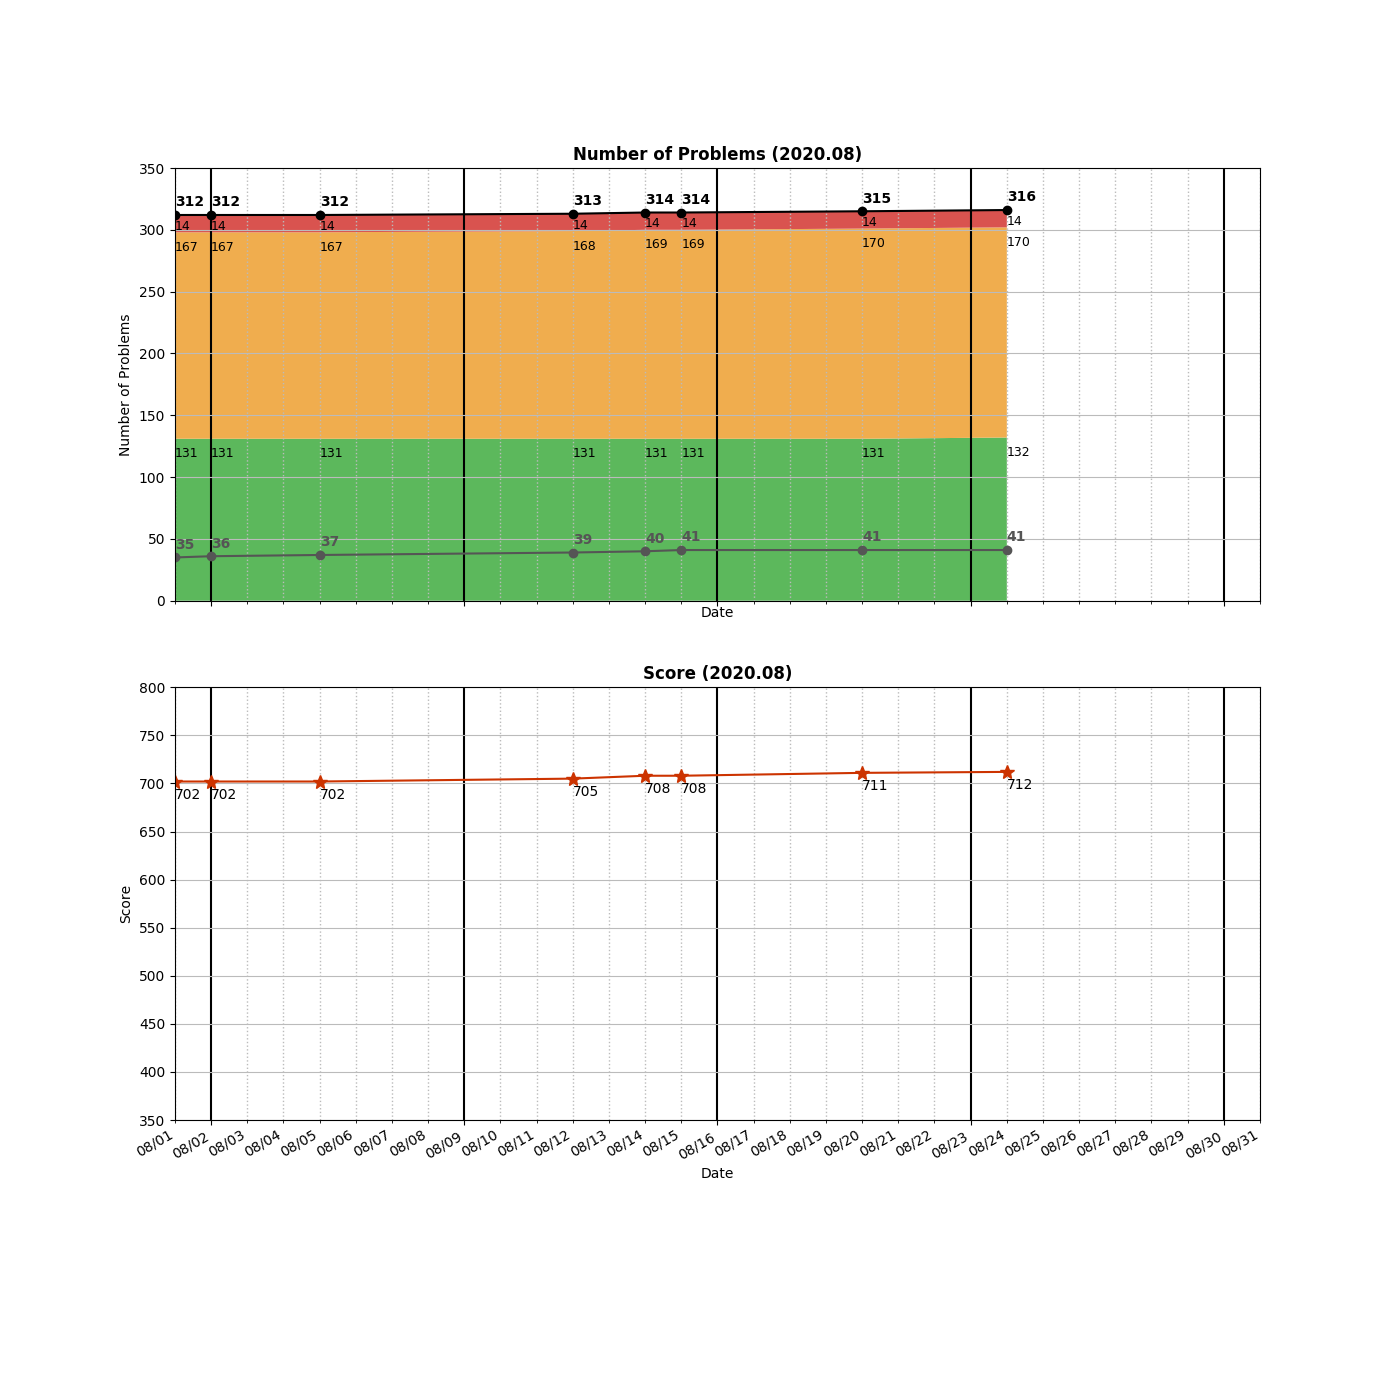
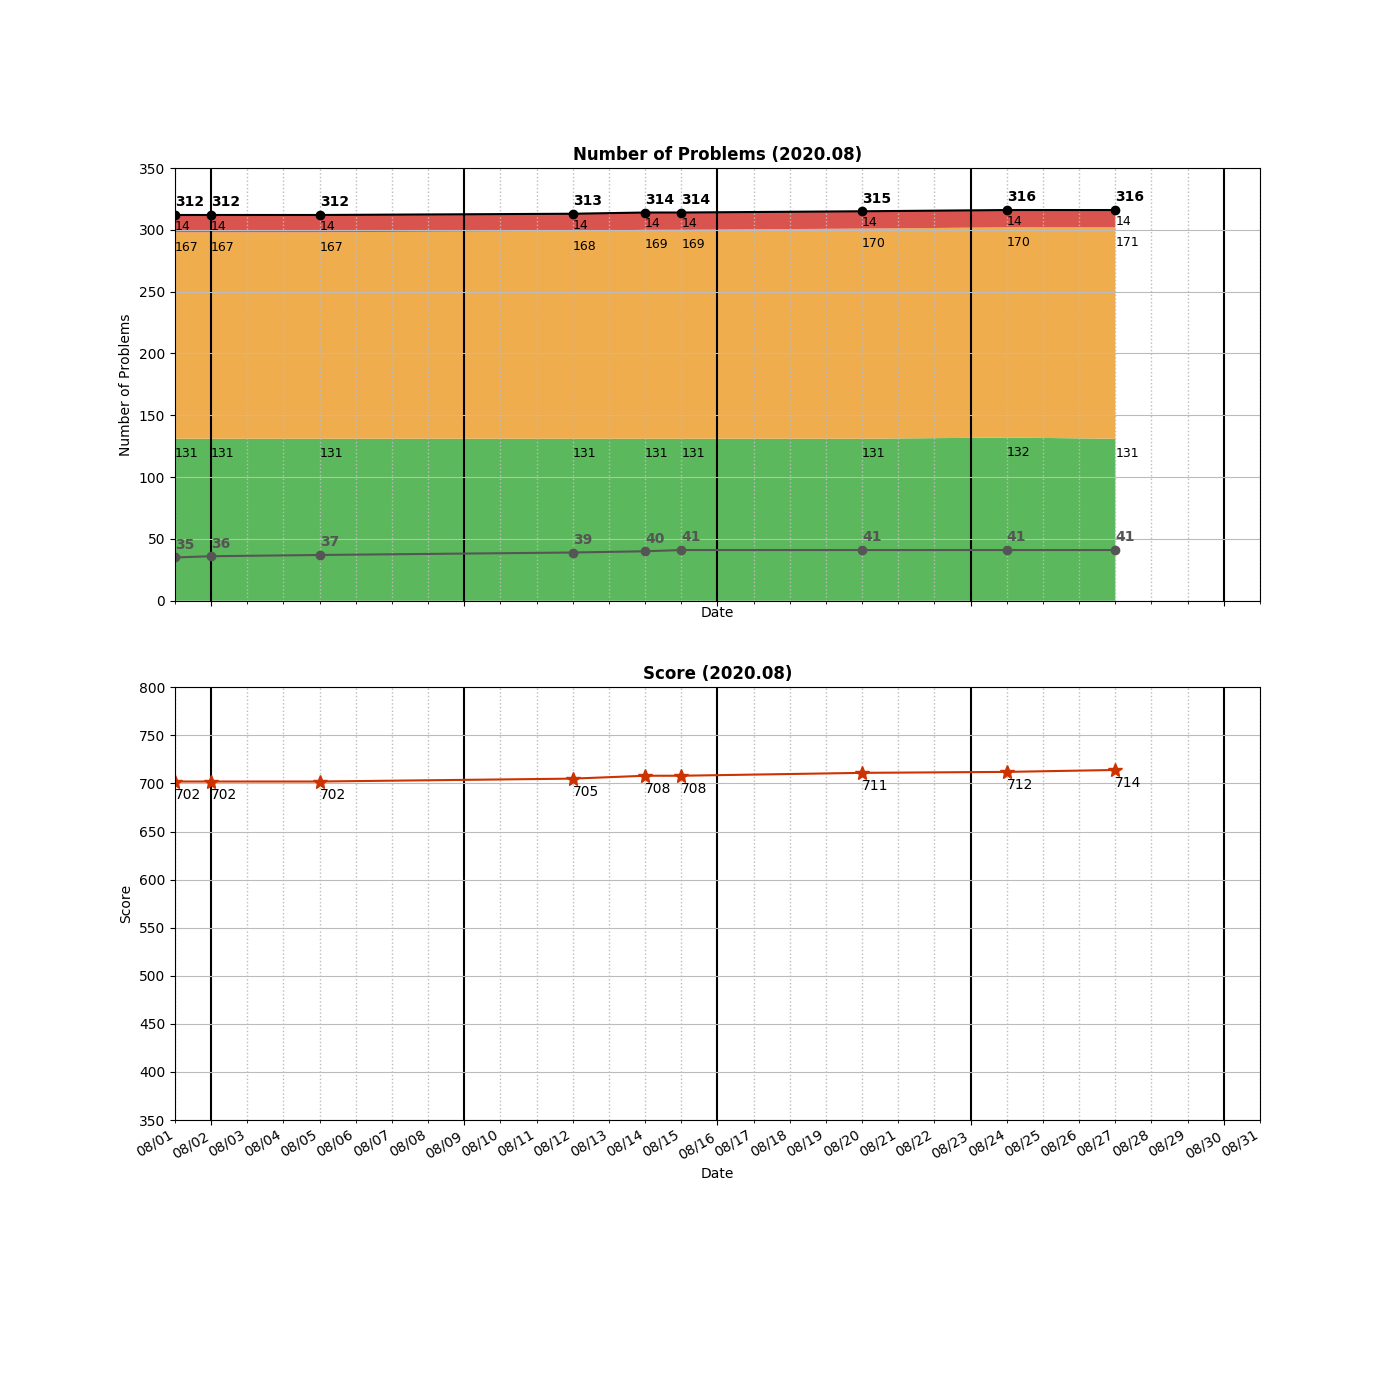
Reviewed _0064_MinimumPathSum.py

Changed region(s): [[0.7064, 0.1229, 0.7986, 0.43]]

diff --git a/algo/dp/_0064_MinimumPathSum.py b/algo/dp/_0064_MinimumPathSum.py
@@ -1,11 +1,12 @@
 class Solution:
     
-    # Botton-up DP [81%]
+    # Bottom-up DP [81%]
     def minPathSum(self, grid: List[List[int]]) -> int:
+        print("Buttom-Up DP")
         if len(grid) == 0:
             return 0 
         m, n = len(grid), len(grid[0])
-        dp = [[grid[i][j] for j in range(n)] for i in range(m)] #clone 
+        dp = [[grid[i][j] for j in range(n)] for i in range(m)]  #clone grid matrix
         
         for i in range(1, m):
             dp[i][0] += dp[i-1][0]
@@ -27,6 +28,7 @@ class Solution:
     
     # Top-down DP [25%]
     def minPathSum1(self, grid: List[List[int]]) -> int:
+        print("Top-Down DP")
         if len(grid) == 0:
             return 0
         memo = {}

diff --git a/review/_0064_MinimumPathSum.py b/review/_0064_MinimumPathSum.py
@@ -1,11 +1,12 @@
 class Solution:
     
-    # Botton-up DP [81%]
+    # Bottom-up DP [81%]
     def minPathSum(self, grid: List[List[int]]) -> int:
+        print("Buttom-Up DP")
         if len(grid) == 0:
             return 0 
         m, n = len(grid), len(grid[0])
-        dp = [[grid[i][j] for j in range(n)] for i in range(m)] #clone 
+        dp = [[grid[i][j] for j in range(n)] for i in range(m)]  #clone grid matrix
         
         for i in range(1, m):
             dp[i][0] += dp[i-1][0]
@@ -27,6 +28,7 @@ class Solution:
     
     # Top-down DP [25%]
     def minPathSum1(self, grid: List[List[int]]) -> int:
+        print("Top-Down DP")
         if len(grid) == 0:
             return 0
         memo = {}

diff --git a/README.md b/README.md
@@ -985,11 +985,11 @@ Num of Python Practice:  313
  1427 Perform String Shifts
  1490 Clone N-ary Tree
 =====================================
-Solved / Total (Easy)  :  132 /  432
-Solved / Total (Medium):  170 /  801
+Solved / Total (Easy)  :  131 /  431
+Solved / Total (Medium):  171 /  803
 Solved / Total (Hard)  :   14 /  330
-Solved / Total (All)   :  316 / 1563
-Total Score            :  712
+Solved / Total (All)   :  316 / 1564
+Total Score            :  714
 =====================================
 
 ```
